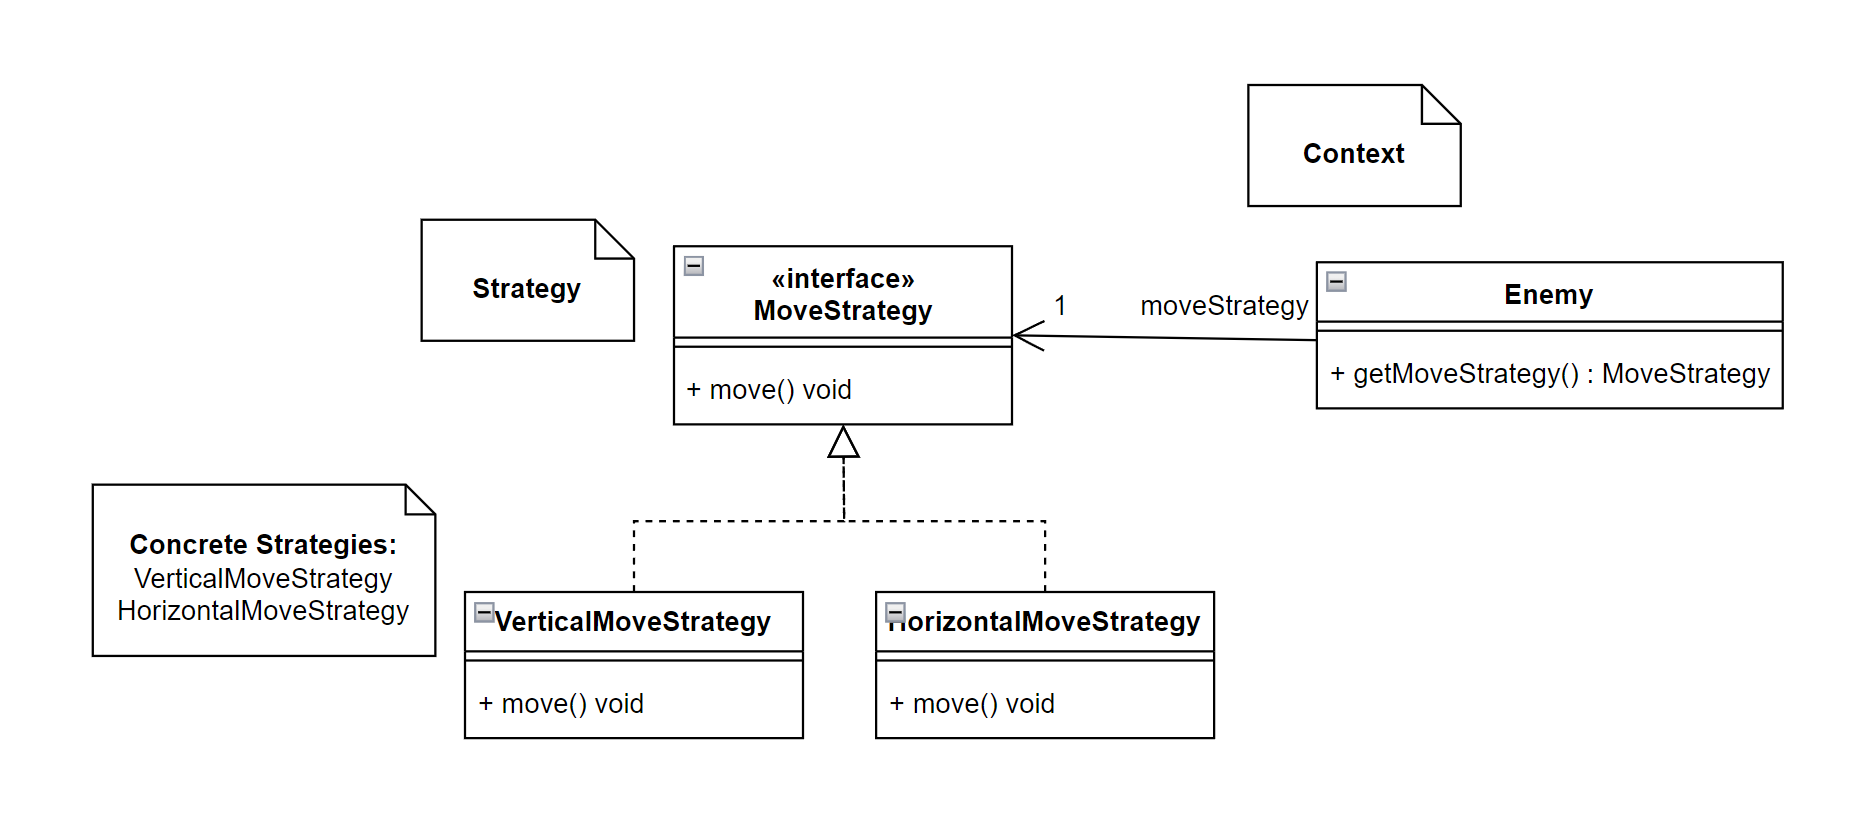
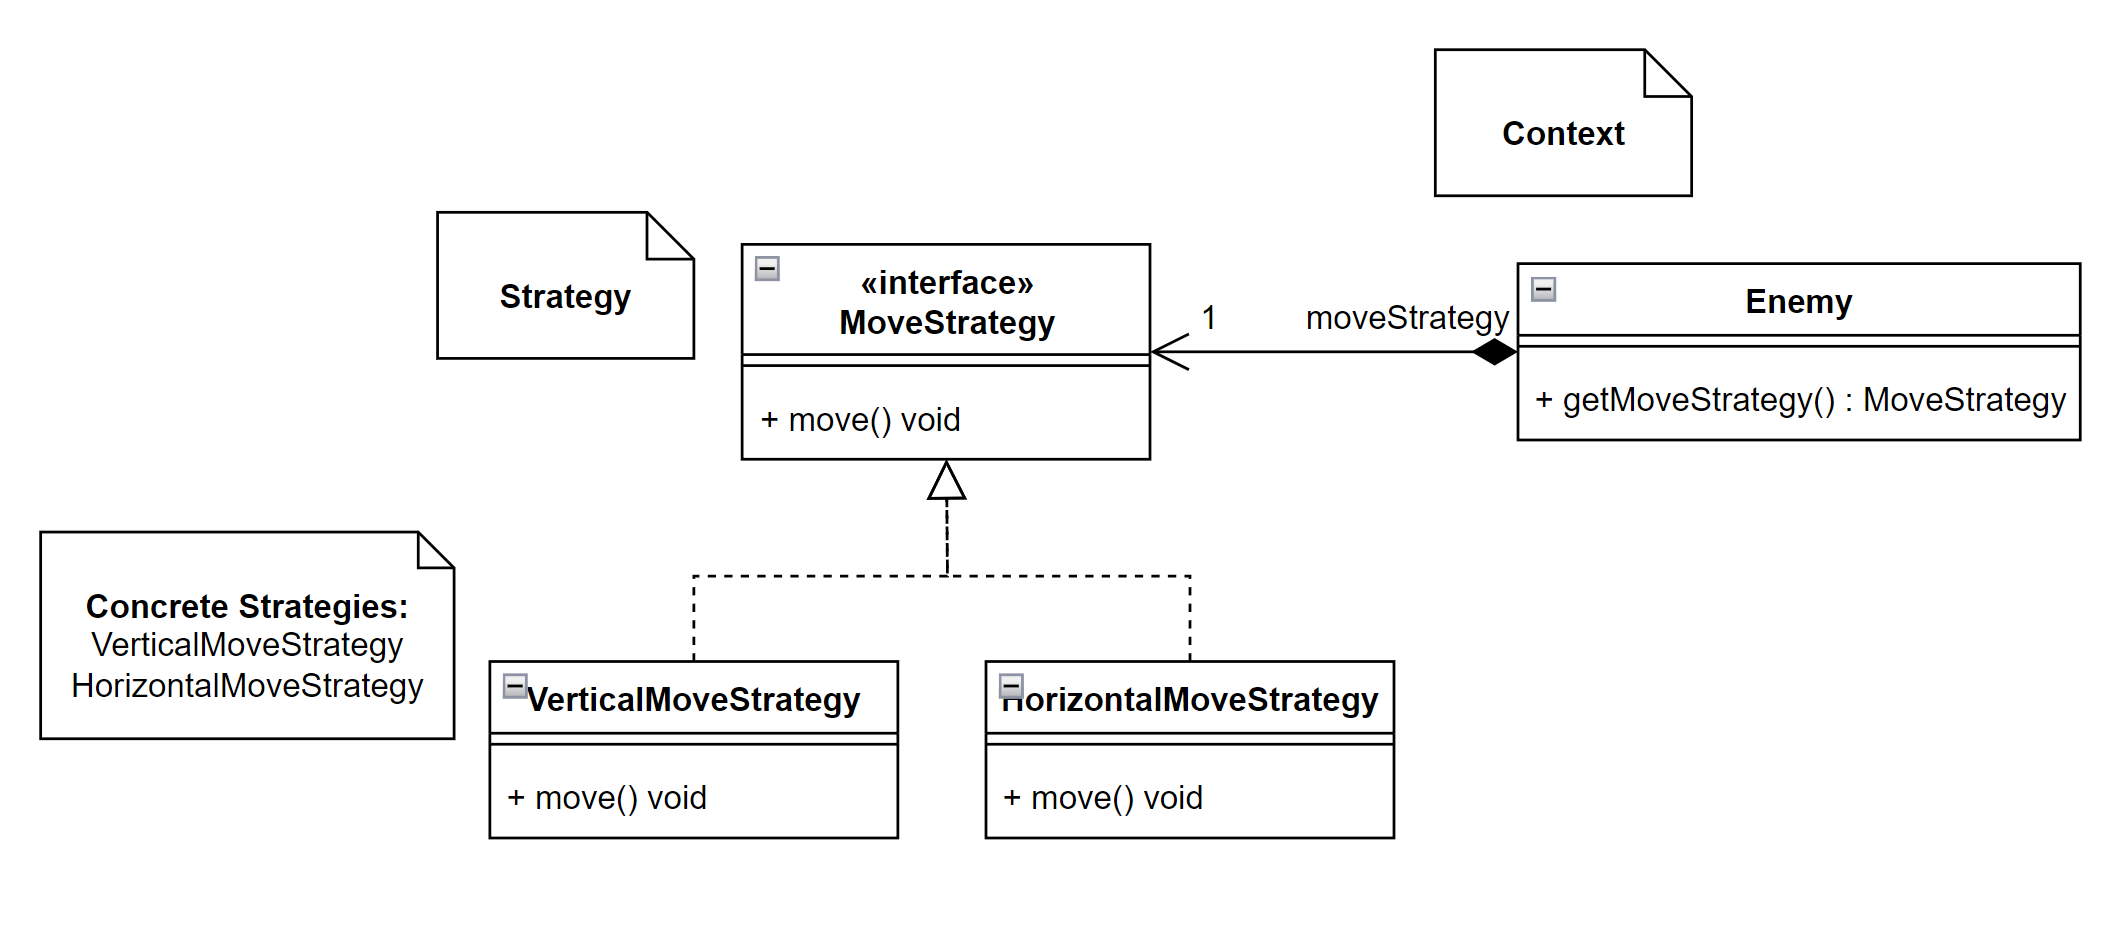
added permalinks and updated some UMLS

diff --git a/docs/README.md b/docs/README.md
@@ -74,9 +74,9 @@ MVC separates the application into three interconnected components:
   <img src="MVC.png" alt="Shell Shift Demo" style="max-width: 60%; height: auto;">
 </div>
 
-- [Models Implementation]()
-- [Viewers Implementation]()
-- [Controllers Implementation]()
+- [Models Implementation](https://github.com/FEUP-LDTS-2023/project-l06gr06/tree/e63ad44e0b9597721db0582b4acf656450d67718/src/main/java/com/l06g06/shellshift/model)
+- [Viewers Implementation](https://github.com/FEUP-LDTS-2023/project-l06gr06/tree/e63ad44e0b9597721db0582b4acf656450d67718/src/main/java/com/l06g06/shellshift/viewer)
+- [Controllers Implementation](https://github.com/FEUP-LDTS-2023/project-l06gr06/tree/e63ad44e0b9597721db0582b4acf656450d67718/src/main/java/com/l06g06/shellshift/controller)
 
 ## State Pattern
 
@@ -90,6 +90,8 @@ So to solve this issue we decided to implement the State Pattern. This allows fo
 
 This way Game would only require a single loop ( containing `step` ) and we would also not have to worry about other if conditions, loops or goto statements as these are handled by the respective state.
 
+- [States Implementation](https://github.com/FEUP-LDTS-2023/project-l06gr06/tree/e63ad44e0b9597721db0582b4acf656450d67718/src/main/java/com/l06g06/shellshift/states)
+
 <div style="display: flex; justify-content: center;">
   <img src="StateDiagram.png" alt="Shell Shift Demo" style="max-width: 60%; height: auto;">
 </div>
@@ -99,13 +101,13 @@ This way Game would only require a single loop ( containing `step` ) and we woul
 Soon in the development process, we decided that having multiple types of enemies/monsters aswell as different types of guns, would make the gameplay more interesting and engaging. 
 
 To achieve this we decided to implement two different Strategy Pattern:
-- **EnemyStrategy**: This interface defines a method `move()`  used by two different moving strategies for enemies, `VerticalEnemyStrategy` blocking movement on the x axis and `HorizontalEnemyStrategy` blocking movement on the y axis.
+- **MoveStrategy**: This interface defines a method `move()`  used by two different moving strategies for enemies, `VerticalEnemyStrategy` blocking movement on the x-axis and `HorizontalEnemyStrategy` blocking movement on the y-axis. [MoveStrategy implementation](https://github.com/FEUP-LDTS-2023/project-l06gr06/tree/e63ad44e0b9597721db0582b4acf656450d67718/src/main/java/com/l06g06/shellshift/model/game/elements/enemies/moveStrategies).
 
 <div style="display: flex; justify-content: center;">
   <img src="EnemyStrategyUML.png" alt="Shell Shift Demo" style="max-width: 60%; height: auto;">
 </div>
 
-- **FireStrategy**: Chell's gun has a different firing strategy allowing not only to diversify the shooting mechanics but also to simplify the process of adding new mechanics in the future. A gun must have a `FireStrategy` with a `getReloadTime()` method that will make the gun slower or faster. For example, `RapidFireStrategy`, will make the gun shoot significantly faster, but this comes with both advantages and disadvantages to the player: although killing enemies is easier, a player will have to be careful with the number of bullets spent. 
+- **FireStrategy**: Chell's gun has a different firing strategy allowing not only to diversify the shooting mechanics but also to simplify the process of adding new mechanics in the future. A gun must have a `FireStrategy` with a `getReloadTime()` method that will make the gun slower or faster. For example, `RapidFireStrategy`, will make the gun shoot significantly faster, but this comes with both advantages and disadvantages to the player: although killing enemies is easier, a player will have to be careful with the number of bullets spent. [FireStrategy Implementation](https://github.com/FEUP-LDTS-2023/project-l06gr06/tree/e63ad44e0b9597721db0582b4acf656450d67718/src/main/java/com/l06g06/shellshift/model/game/gun).
 
 <div style="display: flex; justify-content: center;">
   <img src="FireStrategyUML.png" alt="Shell Shift Demo" style="max-width: 60%; height: auto;">
@@ -115,17 +117,21 @@ To achieve this we decided to implement two different Strategy Pattern:
 Although we are only using Lanterna on our game, there could be an instance where it would be interesting to use a different library to handle the graphical parts of the Game.
 To achieve this goal, we have an interface `GUI` with the methods that we have found relevant to process graphics in our game, such as `drawImageASCII` or `numToASCII`, that are implemented using Lanterna in `LanternaGui` and used by `Viewer<T>`.
 
+- [GUI Wrapper implementation](https://github.com/FEUP-LDTS-2023/project-l06gr06/blob/e63ad44e0b9597721db0582b4acf656450d67718/src/main/java/com/l06g06/shellshift/gui/LanternaGUI.java)
+
+
 <div style="display: flex; justify-content: center;">
   <img src="AdapterUML.png" alt="Shell Shift Demo" style="max-width: 60%; height: auto;">
 </div>
 
-- [GUI Wrapper implementation](https://github.com/FEUP-LDTS-2023/project-l06gr06/tree/bb562b88bc7733ae005f4d3ad7aadc0dbc0a4ef2/src/main/java/com/l06g06/shellshift/gui)
 
 ## Singleton Pattern
 
 Although the *State Pattern* has many advantages, there are also disadvantages that we came across while developing *Shell Shift*. We designed a *Shop* where a player would buy different upgrades to Chell and her gun, and a *Statistics* page where a player can check gameplay-related statistics. However, this meant that these states must be able to communicate with the game state even after transitioning to the game over state. Therefore, a *Database* was needed to store data which could be then read by the *Statistics* page and altered by the *Shop* menu. 
 
 Making the Database a singleton was an obvious choice because it ensures a single, global point of access to the database instance throughout the application and  facilitates efficient coordination among various components, such as the Statistics page and the Shop menu, eliminating potential data inconsistencies.
+
+- [Database Implementation](https://github.com/FEUP-LDTS-2023/project-l06gr06/blob/e63ad44e0b9597721db0582b4acf656450d67718/src/main/java/com/l06g06/shellshift/Database.java)
 
 <div style="display: flex; justify-content: center;">
   <img src="SingletonDatabaseUML.png" alt="Shell Shift Demo" style="max-width: 60%; height: auto;">
@@ -135,6 +141,8 @@ Making the Database a singleton was an obvious choice because it ensures a singl
 
 The adoption of the Factory Method pattern in our game development is driven by the need for a flexible and extensible way to create *Elements*. By employing this pattern, we aim to encapsulate the instantiation logic of diverse game elements, such as *Enemies*, *Powerups* or *Coins*, within dedicated factories, enhancing code maintainability and ease of extension.
 
+- [Factories/Creators Implementation](https://github.com/FEUP-LDTS-2023/project-l06gr06/tree/e63ad44e0b9597721db0582b4acf656450d67718/src/main/java/com/l06g06/shellshift/model/creators)
+
 <div style="display: flex; justify-content: center;">
   <img src="FactoryMethodUML.png" alt="Shell Shift Demo" style="max-width: 60%; height: auto;">
 </div>
@@ -143,15 +151,27 @@ The adoption of the Factory Method pattern in our game development is driven by 
 
 ### Sound
 
-Following extensive testing, we identified certain sound-related issues. On Windows machines, sometimes sound effects would not be played when they should or would loop for 2 or 3 times in a row when they should not be played at all. On Linux Machines, initially after playing the game for a certain amount of time, too many concurrent sounds would freeze and crash the game. 
+Following extensive testing, we identified certain sound-related issues. On some Linux Machines, we found some bugs that were able to be fixed:
+- Initially after playing the game for a certain amount of time, too many concurrent sounds would freeze and crash the game. 
 
-Currently, our implementation is somewhat botched with many `try-catch` blocks and `sleep` calls, indicating potential areas for improvement in terms of robustness and efficiency.
+and some others that proved to be unfixable:
+- After running Shell Shift, on the first play-through there exists a small delay until any sound effect plays.  
+
+Currently, our implementation has many `try-catch` blocks and `sleep` calls, indicating potential areas for improvement in terms of robustness and efficiency.
+
+### Chell's Jump Mechanic
+
+After implementating Chell's jump, we noticed some problems regarding the jump's gravity, which in some cases would lead to Chell falling at a constant rate and in other cases accelerating, according to the correct movement equation implemented. 
+
+Even though we were able to identify where the problem is located (Chell falling from a jump or Chell falling from a platform), we could not fix it in time.
+
+There is also a small bug, when two platforms are very close together. After Chell begins a jump, she will jump without an animation to the platform above her and then begin another jump from that *higher* platform. Despite not being fixed, we made sure that there is little to no chance of two platforms spawning in such proximity to minimize the occurrence of this issue. 
 
 ---
 
 ## Testing
 
-### [Mutation Testing Report]()
+### [Mutation Testing Report](https://github.com/FEUP-LDTS-2023/project-l06gr06/tree/e63ad44e0b9597721db0582b4acf656450d67718/docs/PitestMutationTesting-202312232203)
 
 <div style="display: flex; justify-content: center;">
   <img src="PitestTesting.png" alt="Shell Shift Demo" style="max-width: 60%; height: auto;">
